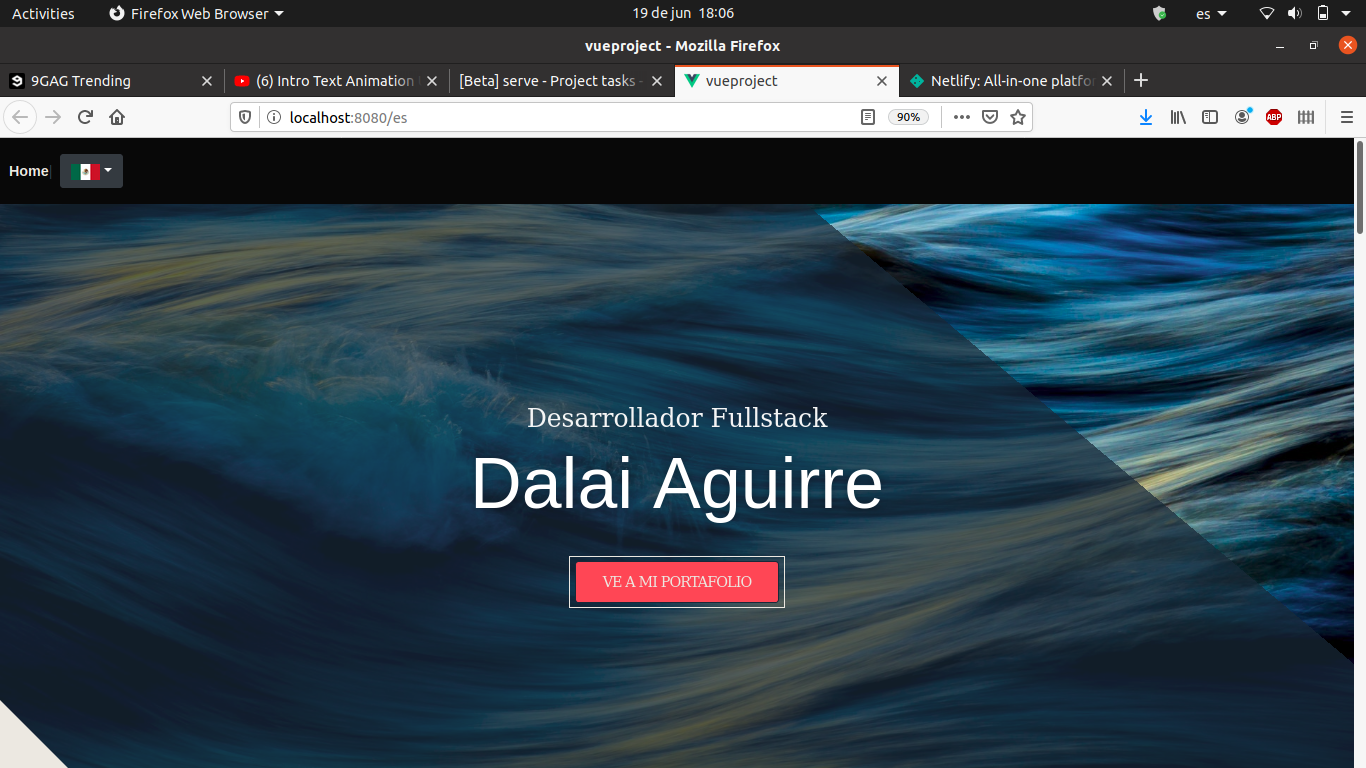
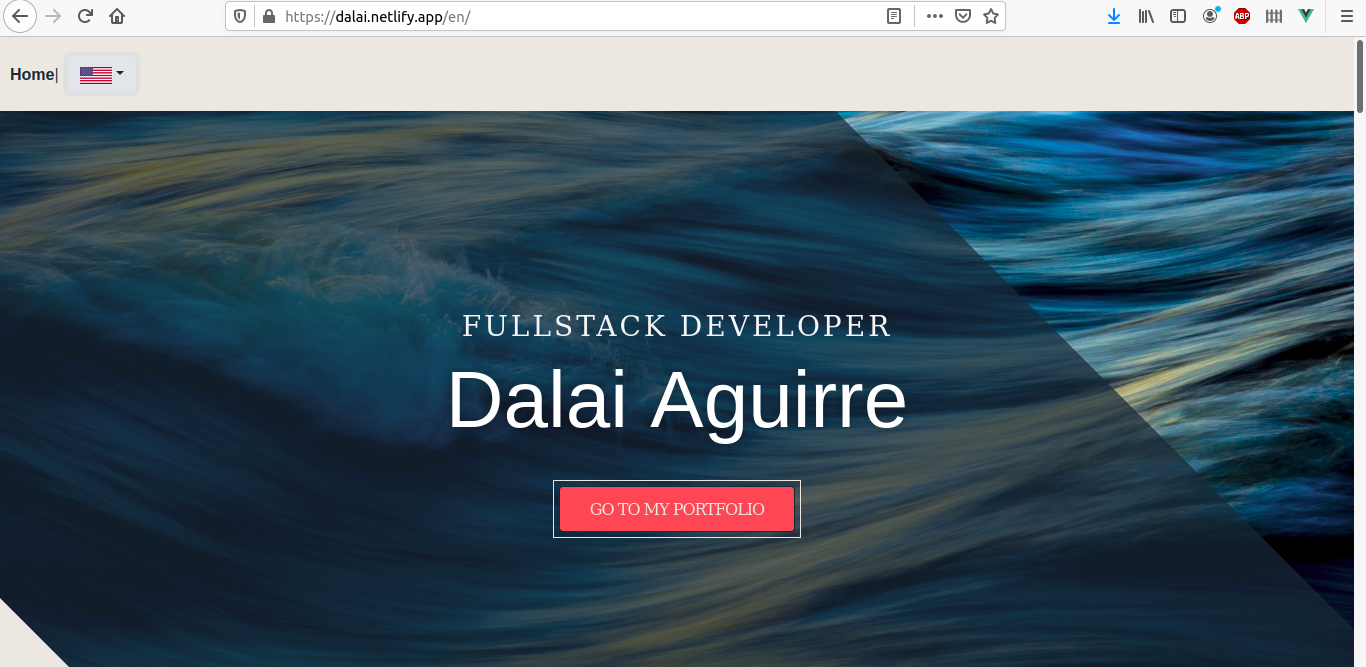
updated form and image from portfolio

diff --git a/src/components/Form.vue b/src/components/Form.vue
@@ -1,10 +1,12 @@
 <template>
   <b-container d-flex justify-content-center>
-    <b-form  @submit="onSubmit" @reset="onReset" v-if="show" method="POST" data-netlify="true">
+    <b-form  @submit="onSubmit" @reset="onReset" v-if="show" method="POST" data-netlify="true"
+    name='form-contact'>
 
 
       <b-form-group id="input-group-1" :label="$t('contact.name')" label-for="input-1">
         <b-form-input
+          name="name"
           id="input-1"
           v-model="form.name"
           required
@@ -19,6 +21,7 @@
         required
       >
         <b-form-input
+        name="email"
           id="input-1"
           v-model="form.email"
           type="email"
@@ -28,6 +31,7 @@
       </b-form-group>
       <b-form-group :label="$t('contact.message')" >
           <b-form-textarea
+          name="message"
     id="textarea-no-resize"
     :placeholder="$t('contact.title')"
     rows="3"

diff --git a/src/components/Portfolio.vue b/src/components/Portfolio.vue
@@ -12,7 +12,7 @@
     <b-col  class="bg1" lg='6'  fluid>
   <b-card class="su"
     
-    img-src="/Untitled.png"
+    img-src="/restaurant.png"
     img-alt="Card Image"
     :title="$t('proyecto_restaurant.title')"
     :sub-title="$t('proyecto_restaurant.subtitle')"
@@ -155,7 +155,7 @@ hr{
 #Content {
 background: rgb(15,25,35);
 background: linear-gradient(355deg, $lightColor 35%, $blueColor 35%);
-  min-height: 45vh;
+  min-height: 35vh;
 }
 .info{
     background:$lightColor;

diff --git a/src/styles/global.scss b/src/styles/global.scss
@@ -10,7 +10,7 @@ $shadow:-.5px 0 black, 0 .5px black, .5px 0 black, 0 -.5px black;
 @mixin Titles {
     font-family: $fontStack;
     font-weight: 400;
-    font-size: 10vw;
+    font-size: 9vw;
 }
 @mixin shadow_title {
    @include Titles;
